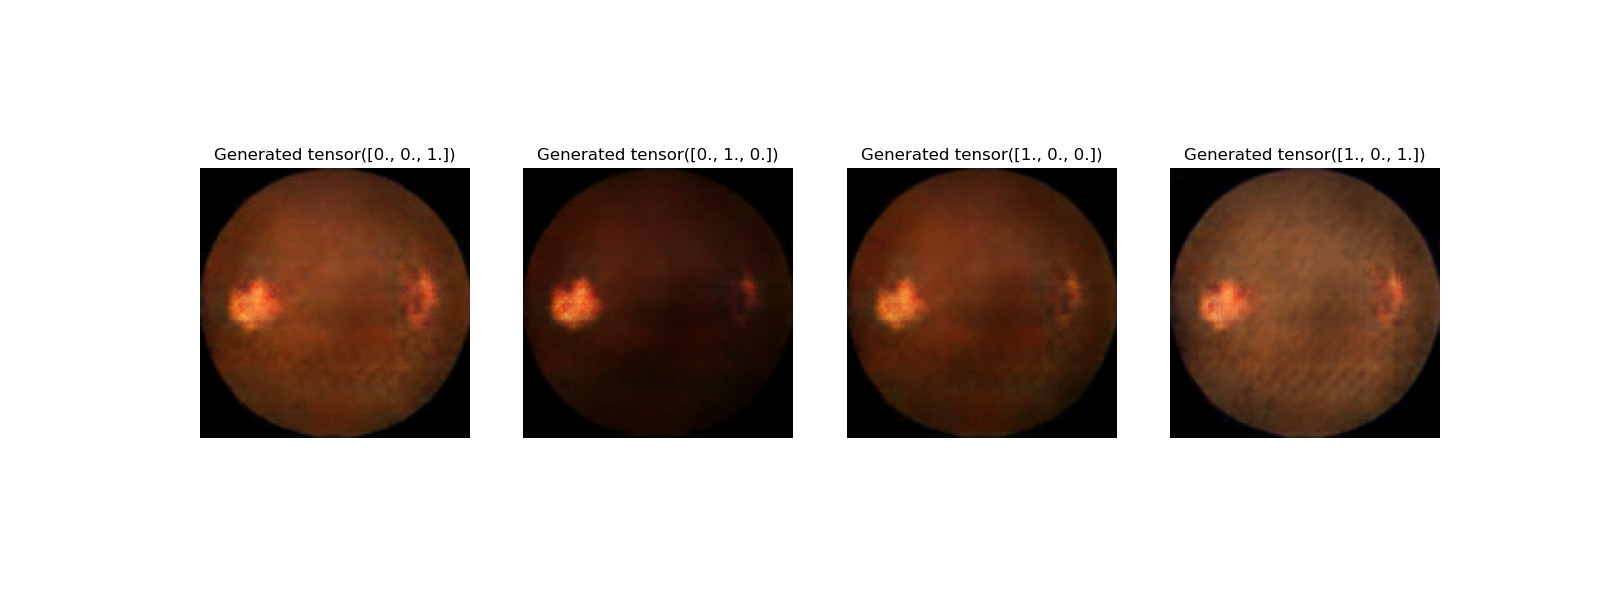
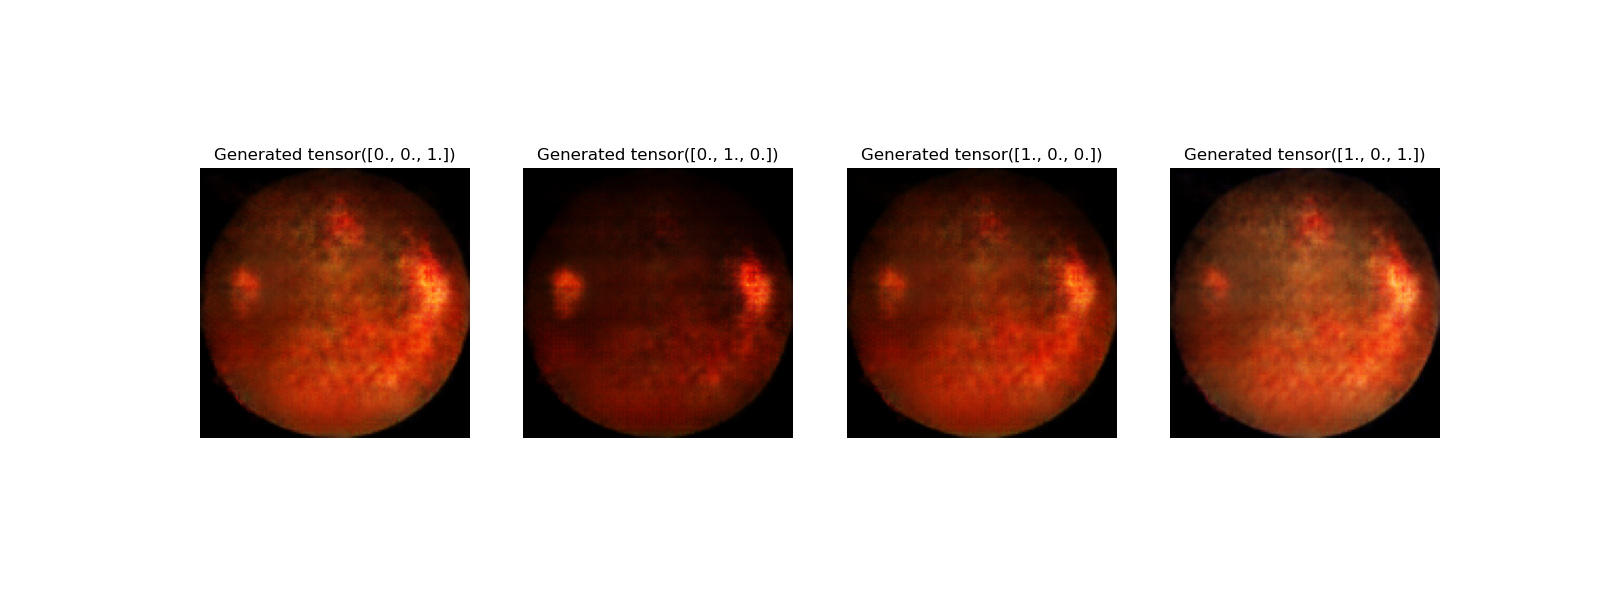
Samples

Changed region(s): [[0.5312, 0.27, 0.9062, 0.75], [0.125, 0.27, 0.5, 0.75]]

diff --git a/task4_dcgan.py b/task4_dcgan.py
@@ -35,5 +35,5 @@ criterion = nn.BCEWithLogitsLoss()
 train_dcgan(NZ,BATCH, G, D, G_optim, D_optim, train_true, 1000, grid_size=[1], inject_noise=False, hinge=True)#1500
 '''
 labels = torch.tensor([[0, 0, 1], [0, 1, 0], [1, 0, 0], [1, 0, 1]],dtype=torch.float).to(device)
-samples = sample(4, G, labels, [NZ], temp=1, seed=5, n= 3)
+samples = sample(4, G, labels, [NZ], temp=1, seed=100, n= 3)
 save_samples(samples, labels, "task4/generated", denorm=True)
